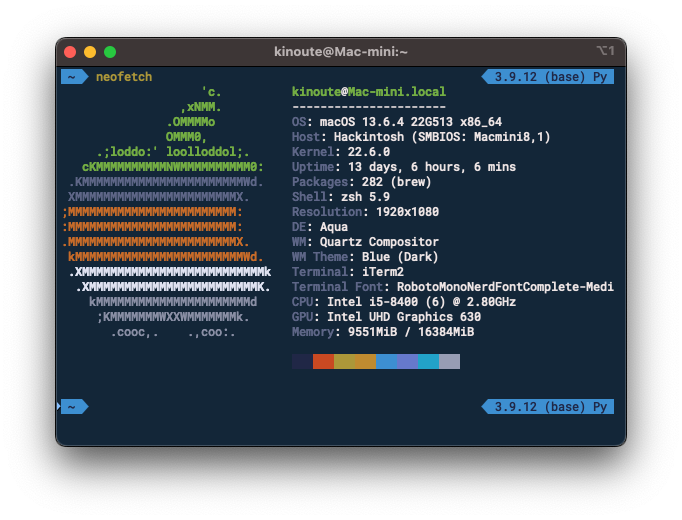
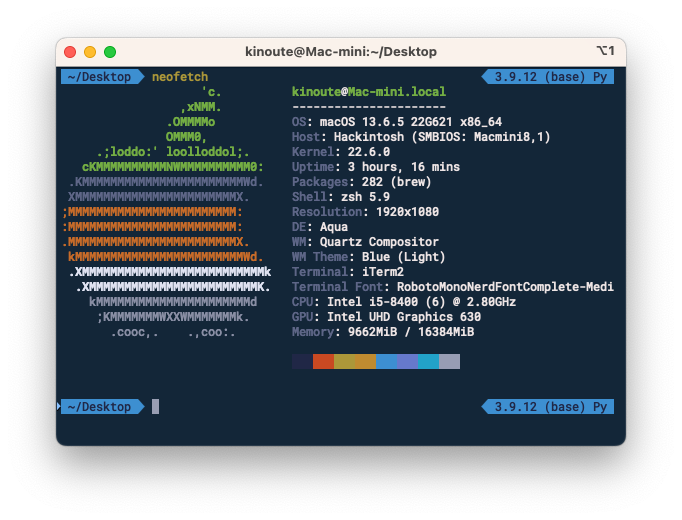
Upgrade to macOS Ventura 13.6.5

diff --git a/README.md b/README.md
@@ -1,6 +1,6 @@
 # Hackintosh
 
-A Hackintosh running macOS Ventura 13.6.4 with a i5-8400 and a Gigabyte Z370-HD3P.
+A Hackintosh running macOS Ventura 13.6.5 with a i5-8400 and a Gigabyte Z370-HD3P.
 
 ![System spec](Pictures/system.png)
 
@@ -45,7 +45,7 @@ If you're curious, I changed two things in my `config.plist` to fix Catalina:
 
 I built my Hackintosh because I was disappointed with the price of the new Mac Mini 2018. Its configuration is close to the new mid-entry Mac Mini but with more RAM (16 instead of 8 Gb). Here are the specs:
 
-- macOS Ventura 13.6.4
+- macOS Ventura 13.6.5
 - Intel i5-8400 (6 cores @ 2.80 Ghz, 3.80 Ghz Turbo Boost)
 - Gigabyte Z370-HD3P
 - Corsair Vengeance LPX 16Gb (2x8Gb) DDR4 2666MHz OC @ 3200 Mhz (CMK16GX4M2A2666C16)
